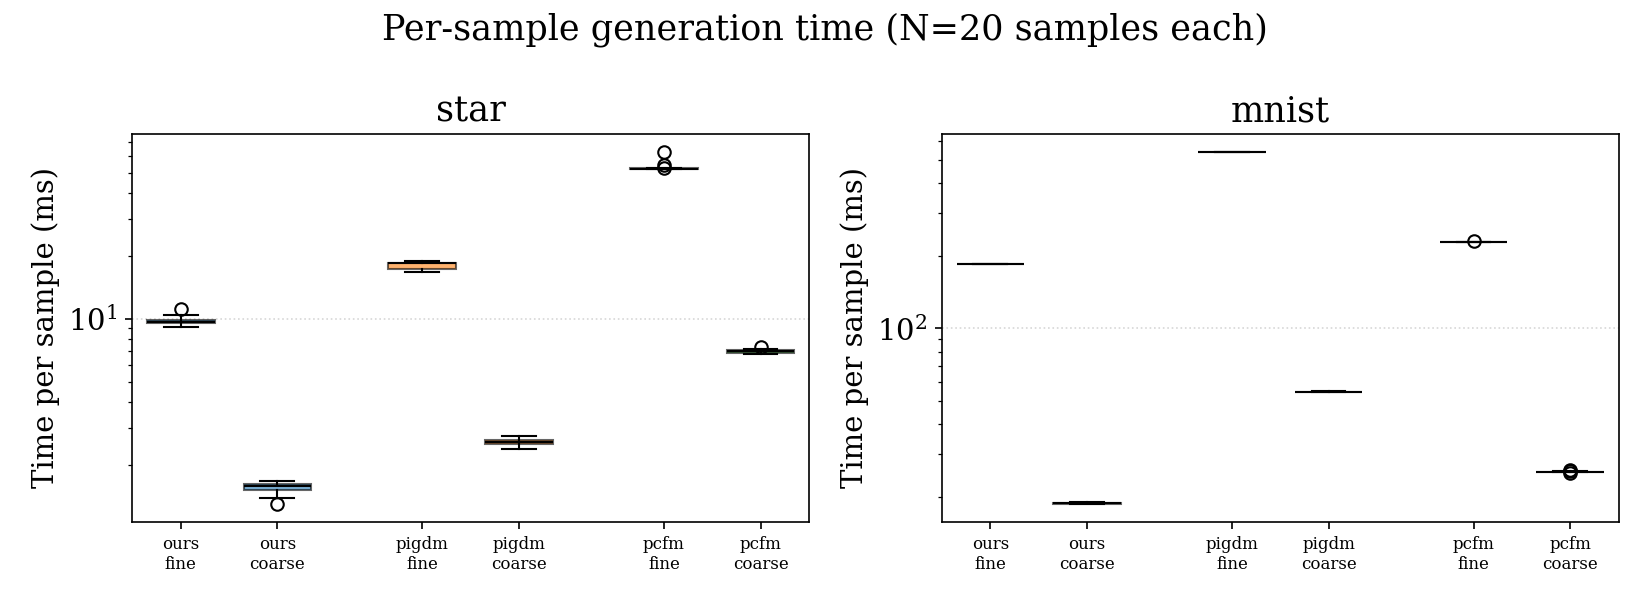
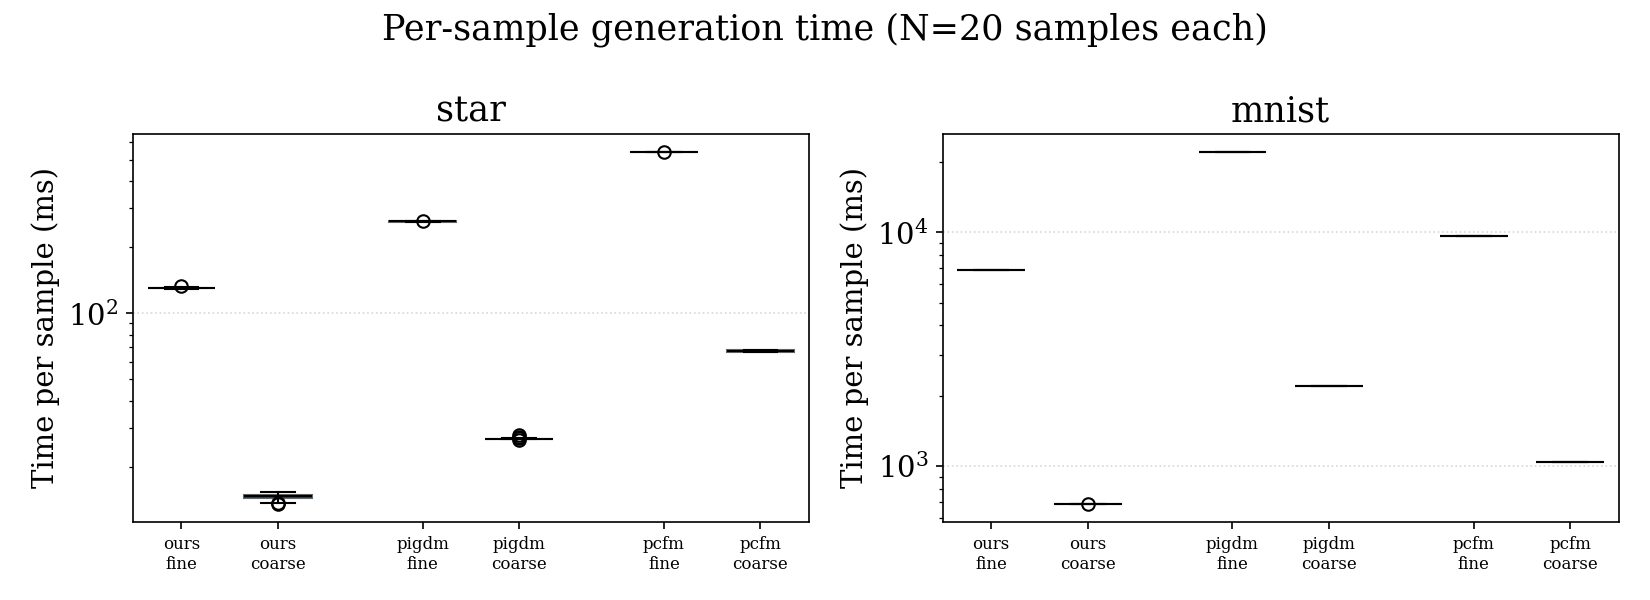
record generation times and compare with constraint violations

diff --git a/plots.py b/plots.py
@@ -174,18 +174,24 @@ def _make_single_sample_fn(
 
 
 def _time_method(method, example, num_samples, *, dt, num_steps, seed=0):
-    """JIT a single-sample generator and time ``num_samples`` invocations."""
+    """JIT a single-sample generator and time ``num_samples`` invocations.
+
+    Returns ``(times, violations)``: per-sample wall-clock times (s) and the
+    corresponding scalar constraint violations of each generated sample.
+    """
     gen = _make_single_sample_fn(method, example, dt=dt, num_steps=num_steps)
+    _, violation_fn = _get_constraint(example)
     rngs = jax.random.split(jax.random.key(seed), num_samples)
     # Warm-up (compile + first call).
     jax.block_until_ready(gen(rngs[0]))
-    times = []
+    times, violations = [], []
     for rng in rngs:
         t0 = time.perf_counter()
         sample = gen(rng)
         jax.block_until_ready(sample)
         times.append(time.perf_counter() - t0)
-    return times
+        violations.append(violation_fn(sample))
+    return times, violations
 
 
 # ============================================================================
@@ -208,19 +214,41 @@ def plot_generation_times(regenerate: bool = False, num_samples: int = 20):
                 results[example][method] = {}
                 for label, dt, n_steps in configs:
                     print(f"  {example} / {method} / {label}")
-                    times = _time_method(
+                    times, violations = _time_method(
                         method,
                         example,
                         num_samples,
                         dt=dt,
                         num_steps=n_steps,
                     )
-                    results[example][method][label] = times
+                    results[example][method][label] = {
+                        "times": times,
+                        "violations": violations,
+                    }
         with open(data_file, "w") as f:
             json.dump(results, f, indent=2)
 
     with open(data_file) as f:
         results = json.load(f)
+
+    print("[generation_times] summary per sample:")
+    header = f"    {'method':>12} / {'config':<6}: {'time (sec)':>10} | "
+    header += f"{'viol mean':>10} {'viol min':>10} {'viol max':>10}"
+    for example in ("star", "mnist"):
+        print(f"  {example}:")
+        print(header)
+        for method in METHODS:
+            for label in ("fine", "coarse"):
+                times = results[example][method][label]["times"]
+                violations = results[example][method][label]["violations"]
+                mean_sec = sum(times) / len(times)
+                v_mean = np.nanmean(violations)
+                v_min = min(violations)
+                v_max = max(violations)
+                print(
+                    f"    {method:>12} / {label:<6}: {mean_sec:10.3f} | "
+                    f"{v_mean:10.3e} {v_min:10.3e} {v_max:10.3e}"
+                )
 
     fig, axes = plt.subplots(1, 2, figsize=(11, 4))
     for ax, example in zip(axes, ("star", "mnist")):
@@ -228,7 +256,9 @@ def plot_generation_times(regenerate: bool = False, num_samples: int = 20):
         x = 0.0
         for method in METHODS:
             for label in ("fine", "coarse"):
-                data.append([t * 1000 for t in results[example][method][label]])
+                data.append(
+                    [t * 1000 for t in results[example][method][label]["times"]]
+                )
                 labels.append(f"{method}\n{label}")
                 positions.append(x)
                 colors.append(METHOD_COLORS[method])